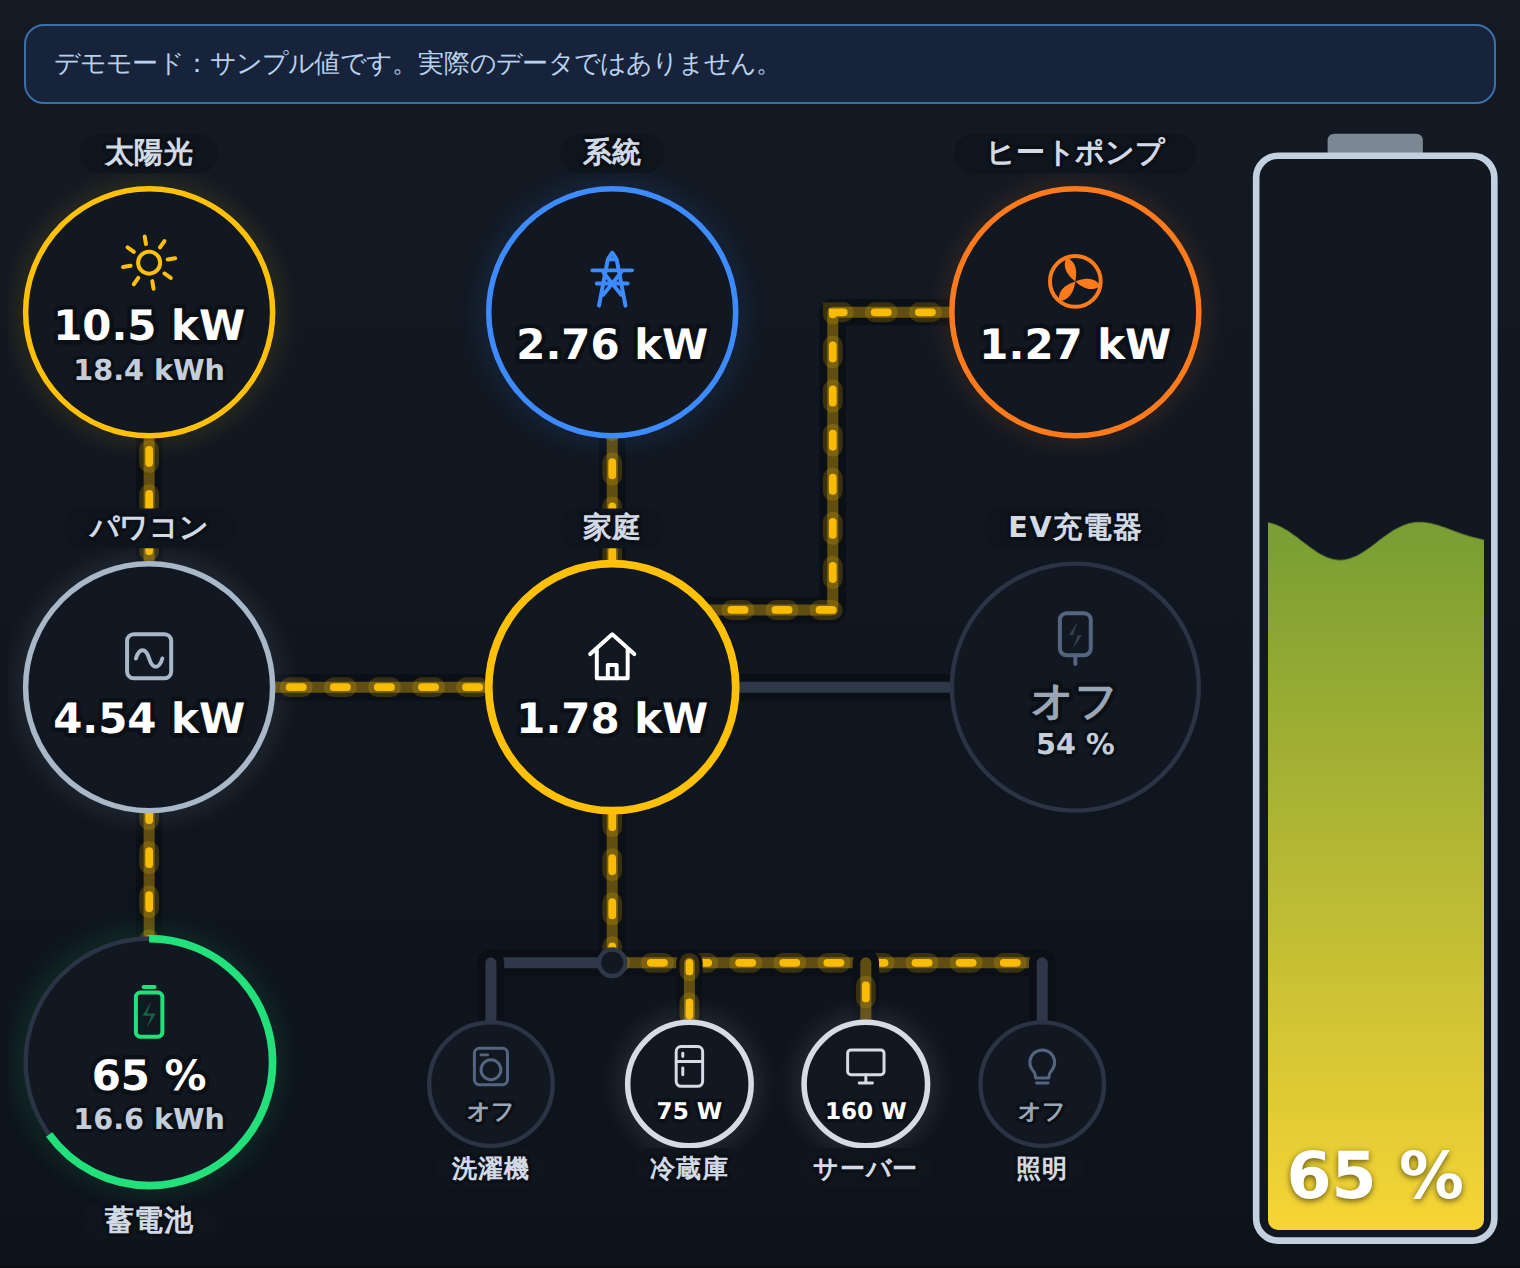
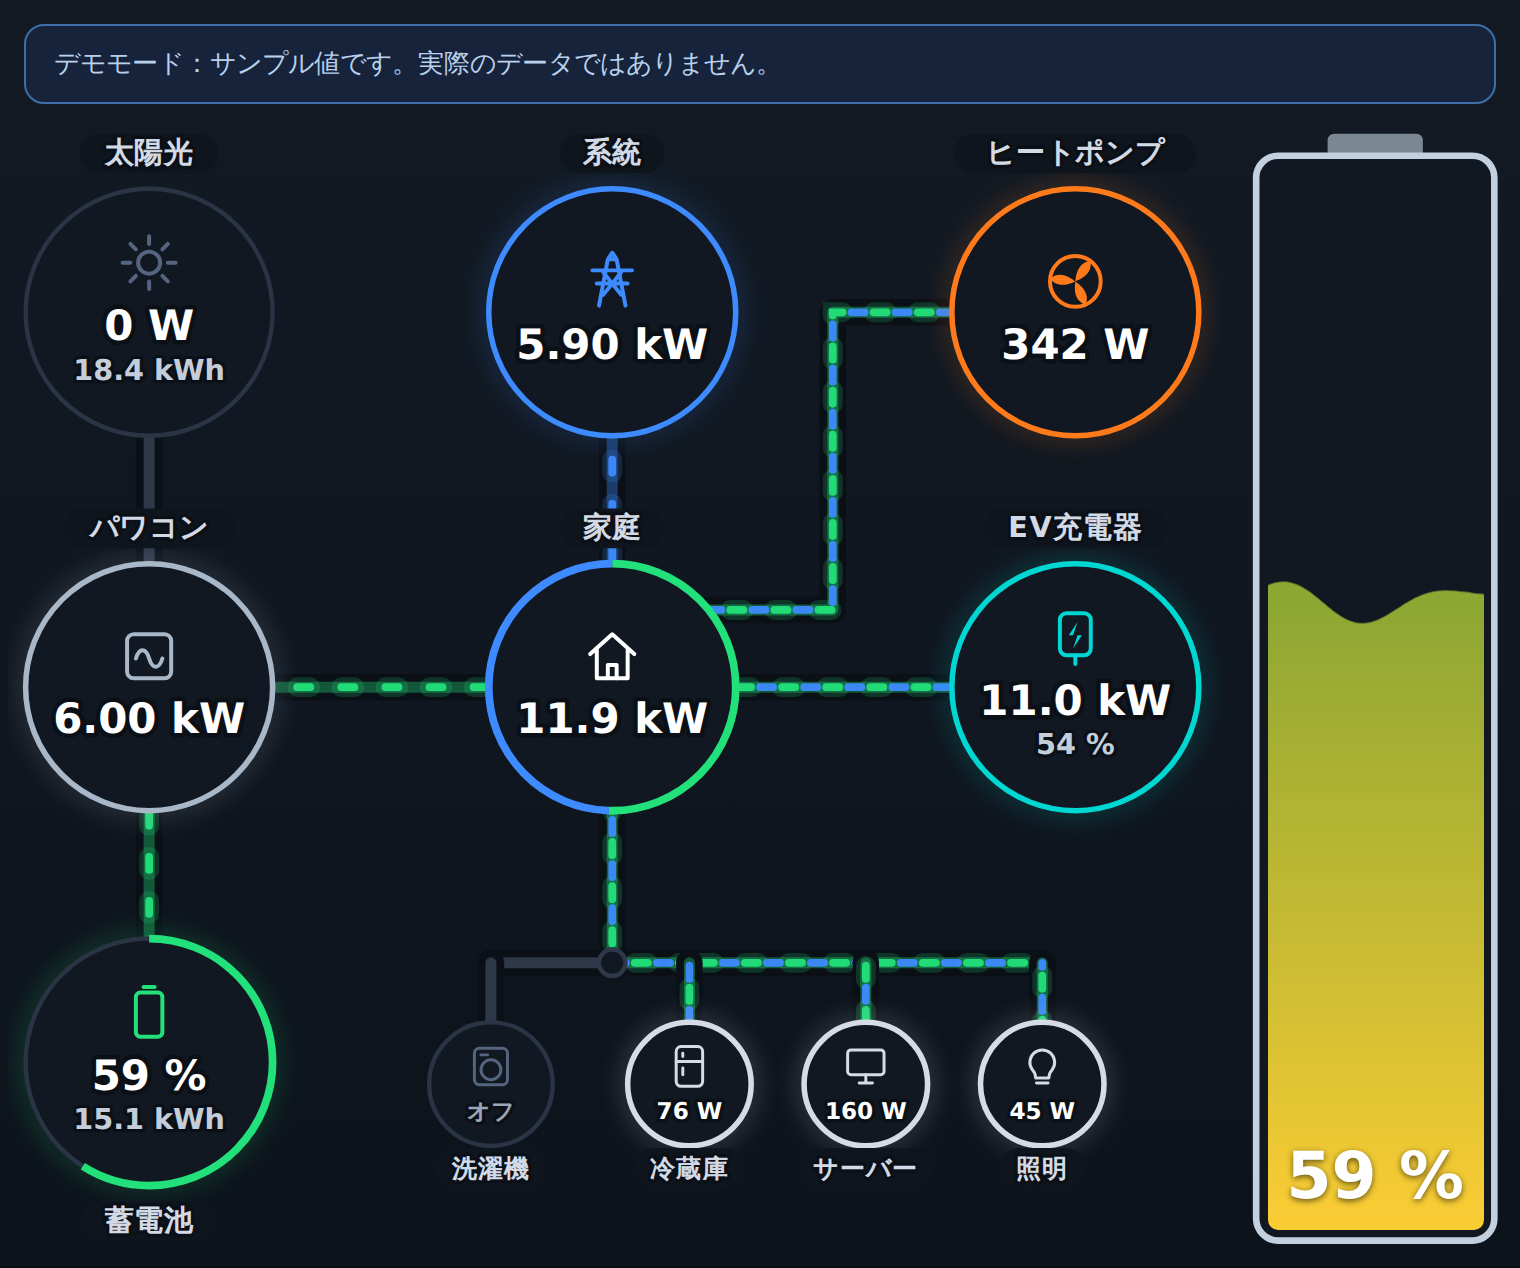
fix

diff --git a/dist/energy-flow-card-by-lutarym.js b/dist/energy-flow-card-by-lutarym.js
@@ -116,10 +116,15 @@ const LEITUNGEN = {
   bus_ex: "M310 260 V 385",
 };
 
-/** Schiene zu den weiteren Verbrauchern: links ein Abzweig, rechts der Rest. */
-function exSchiene(seite, anzahl) {
+/**
+ * Schiene zu den weiteren Verbrauchern: links ein Abzweig zum ersten,
+ * rechts ein eigenes Stueck bis zu jedem weiteren Verbraucher. So laeuft
+ * die Schiene nur bis zum letzten Verbraucher, der gerade Strom bezieht.
+ */
+function exSchiene(seite) {
   if (seite === "l") return `M310 ${G.EX_SCHIENE} H ${G.EX_X[0]}`;
-  return `M310 ${G.EX_SCHIENE} H ${G.EX_X[Math.max(1, anzahl - 1)]}`;
+  const von = seite === 1 ? 310 : G.EX_X[seite - 1];
+  return `M${von} ${G.EX_SCHIENE} H ${G.EX_X[seite]}`;
 }
 function exAbzweig(i) {
   return `M${G.EX_X[i]} ${G.EX_SCHIENE} V ${G.EX_Y}`;
@@ -855,16 +860,24 @@ class LutarymEnergyFlowCard extends HTMLElement {
 
     const soc = hatAkku ? this._zahl("battery_soc") : null;
 
+    // Fuer alles Abgeleitete gilt die Schwelle min_flow: Kleinere Werte
+    // zaehlen als Stillstand, damit sich Kleinstwerte nicht zu einem
+    // scheinbar aktiven Fluss aufsummieren.
+    const schwelle = Number(c.min_flow) || 0;
+    const ab = (w) => (w !== null && w > schwelle ? w : 0);
+    const gPv = ab(pv);
+    const gBezug = ab(bezug);
+    const gEinsp = ab(einspeisung);
+    const gLaden = ab(laden);
+    const gEntladen = ab(entladen);
+
     // Hausverbrauch: eigene Entitaet gewinnt, sonst aus der Bilanz.
     let haus = null;
     if (!demo && e.home) {
       const h = this._leistung("home");
       haus = h === null ? null : Math.max(0, h);
     } else if (pv !== null || bezug !== null || entladen !== null) {
-      haus = Math.max(
-        0,
-        (pv || 0) + (bezug || 0) + (entladen || 0) - (einspeisung || 0) - (laden || 0)
-      );
+      haus = Math.max(0, gPv + gBezug + gEntladen - gEinsp - gLaden);
     }
 
     const wp = demo || e.heatpump ? this._leistung("heatpump") : null;
@@ -874,7 +887,9 @@ class LutarymEnergyFlowCard extends HTMLElement {
       w: this._leistungVon(v.id),
     }));
 
-    const fluss = verteile({ pv, bezug, einspeisung, laden, entladen, haus });
+    const fluss = verteile({
+      pv: gPv, bezug: gBezug, einspeisung: gEinsp, laden: gLaden, entladen: gEntladen, haus: ab(haus),
+    });
 
     // Wechselrichter: AC-Leistung ins Haus. Eigene Entitaet gewinnt,
     // sonst PV plus Entladen minus Laden. Negativ heisst: das Netz laedt
@@ -883,8 +898,7 @@ class LutarymEnergyFlowCard extends HTMLElement {
     let wr = null;
     if (hatWr) {
       const eigen = !demo && e.inverter ? this._leistung("inverter") : null;
-      wr = eigen !== null ? eigen
-        : (pv || 0) + (entladen || 0) - (laden || 0);
+      wr = eigen !== null ? eigen : gPv + gEntladen - gLaden;
     }
 
     return {
@@ -1225,8 +1239,8 @@ class LutarymEnergyFlowCard extends HTMLElement {
       ${this._leitung("bus_wp")}
       ${this._leitung("bus_wb")}
       ${ex.length ? this._leitung("bus_ex") : ""}
-      ${ex.length ? this._leitung("ex_l", exSchiene("l", ex.length)) : ""}
-      ${ex.length > 1 ? this._leitung("ex_r", exSchiene("r", ex.length)) : ""}
+      ${ex.length ? this._leitung("ex_l", exSchiene("l")) : ""}
+      ${ex.slice(1).map((_, k) => this._leitung(`ex_r${k + 1}`, exSchiene(k + 1))).join("")}
       ${ex.map((_, i) => this._leitung(`exa${i}`, exAbzweig(i))).join("")}
       ${ex.length ? `<circle cx="310" cy="${G.EX_SCHIENE}" r="6" class="knotenpunkt"/>` : ""}
       ${this._knoten({ id: "wp", pos: G.WP, label: this._name("heatpump", "wp"), entity: "heatpump",
@@ -1546,12 +1560,13 @@ class LutarymEnergyFlowCard extends HTMLElement {
 
       // Weitere Verbraucher
       let exSumme = 0;
-      let rechtsEx = 0;
+      // rechtsAb[k]: Leistung aller aktiven Verbraucher ab Platz k.
+      const rechtsAb = m.verbraucher.map(() => 0);
       m.verbraucher.forEach((v, i) => {
         const aktiv = an(v.w);
         if (aktiv) {
           exSumme += v.w;
-          if (i > 0) rechtsEx += v.w;
+          for (let k = 1; k <= i; k++) rechtsAb[k] += v.w;
         }
         this._setLeitung(`exa${i}`, v.w, hausMix);
         this._setText(`ex${i}-v`, this._verbraucherText(v.id, v.w, aktiv));
@@ -1560,7 +1575,9 @@ class LutarymEnergyFlowCard extends HTMLElement {
       });
       this._setLeitung("bus_ex", exSumme, hausMix);
       this._setLeitung("ex_l", m.verbraucher[0] ? m.verbraucher[0].w : null, hausMix);
-      this._setLeitung("ex_r", rechtsEx, hausMix);
+      for (let k = 1; k < m.verbraucher.length; k++) {
+        this._setLeitung(`ex_r${k}`, rechtsAb[k], hausMix);
+      }
 
     }
 
